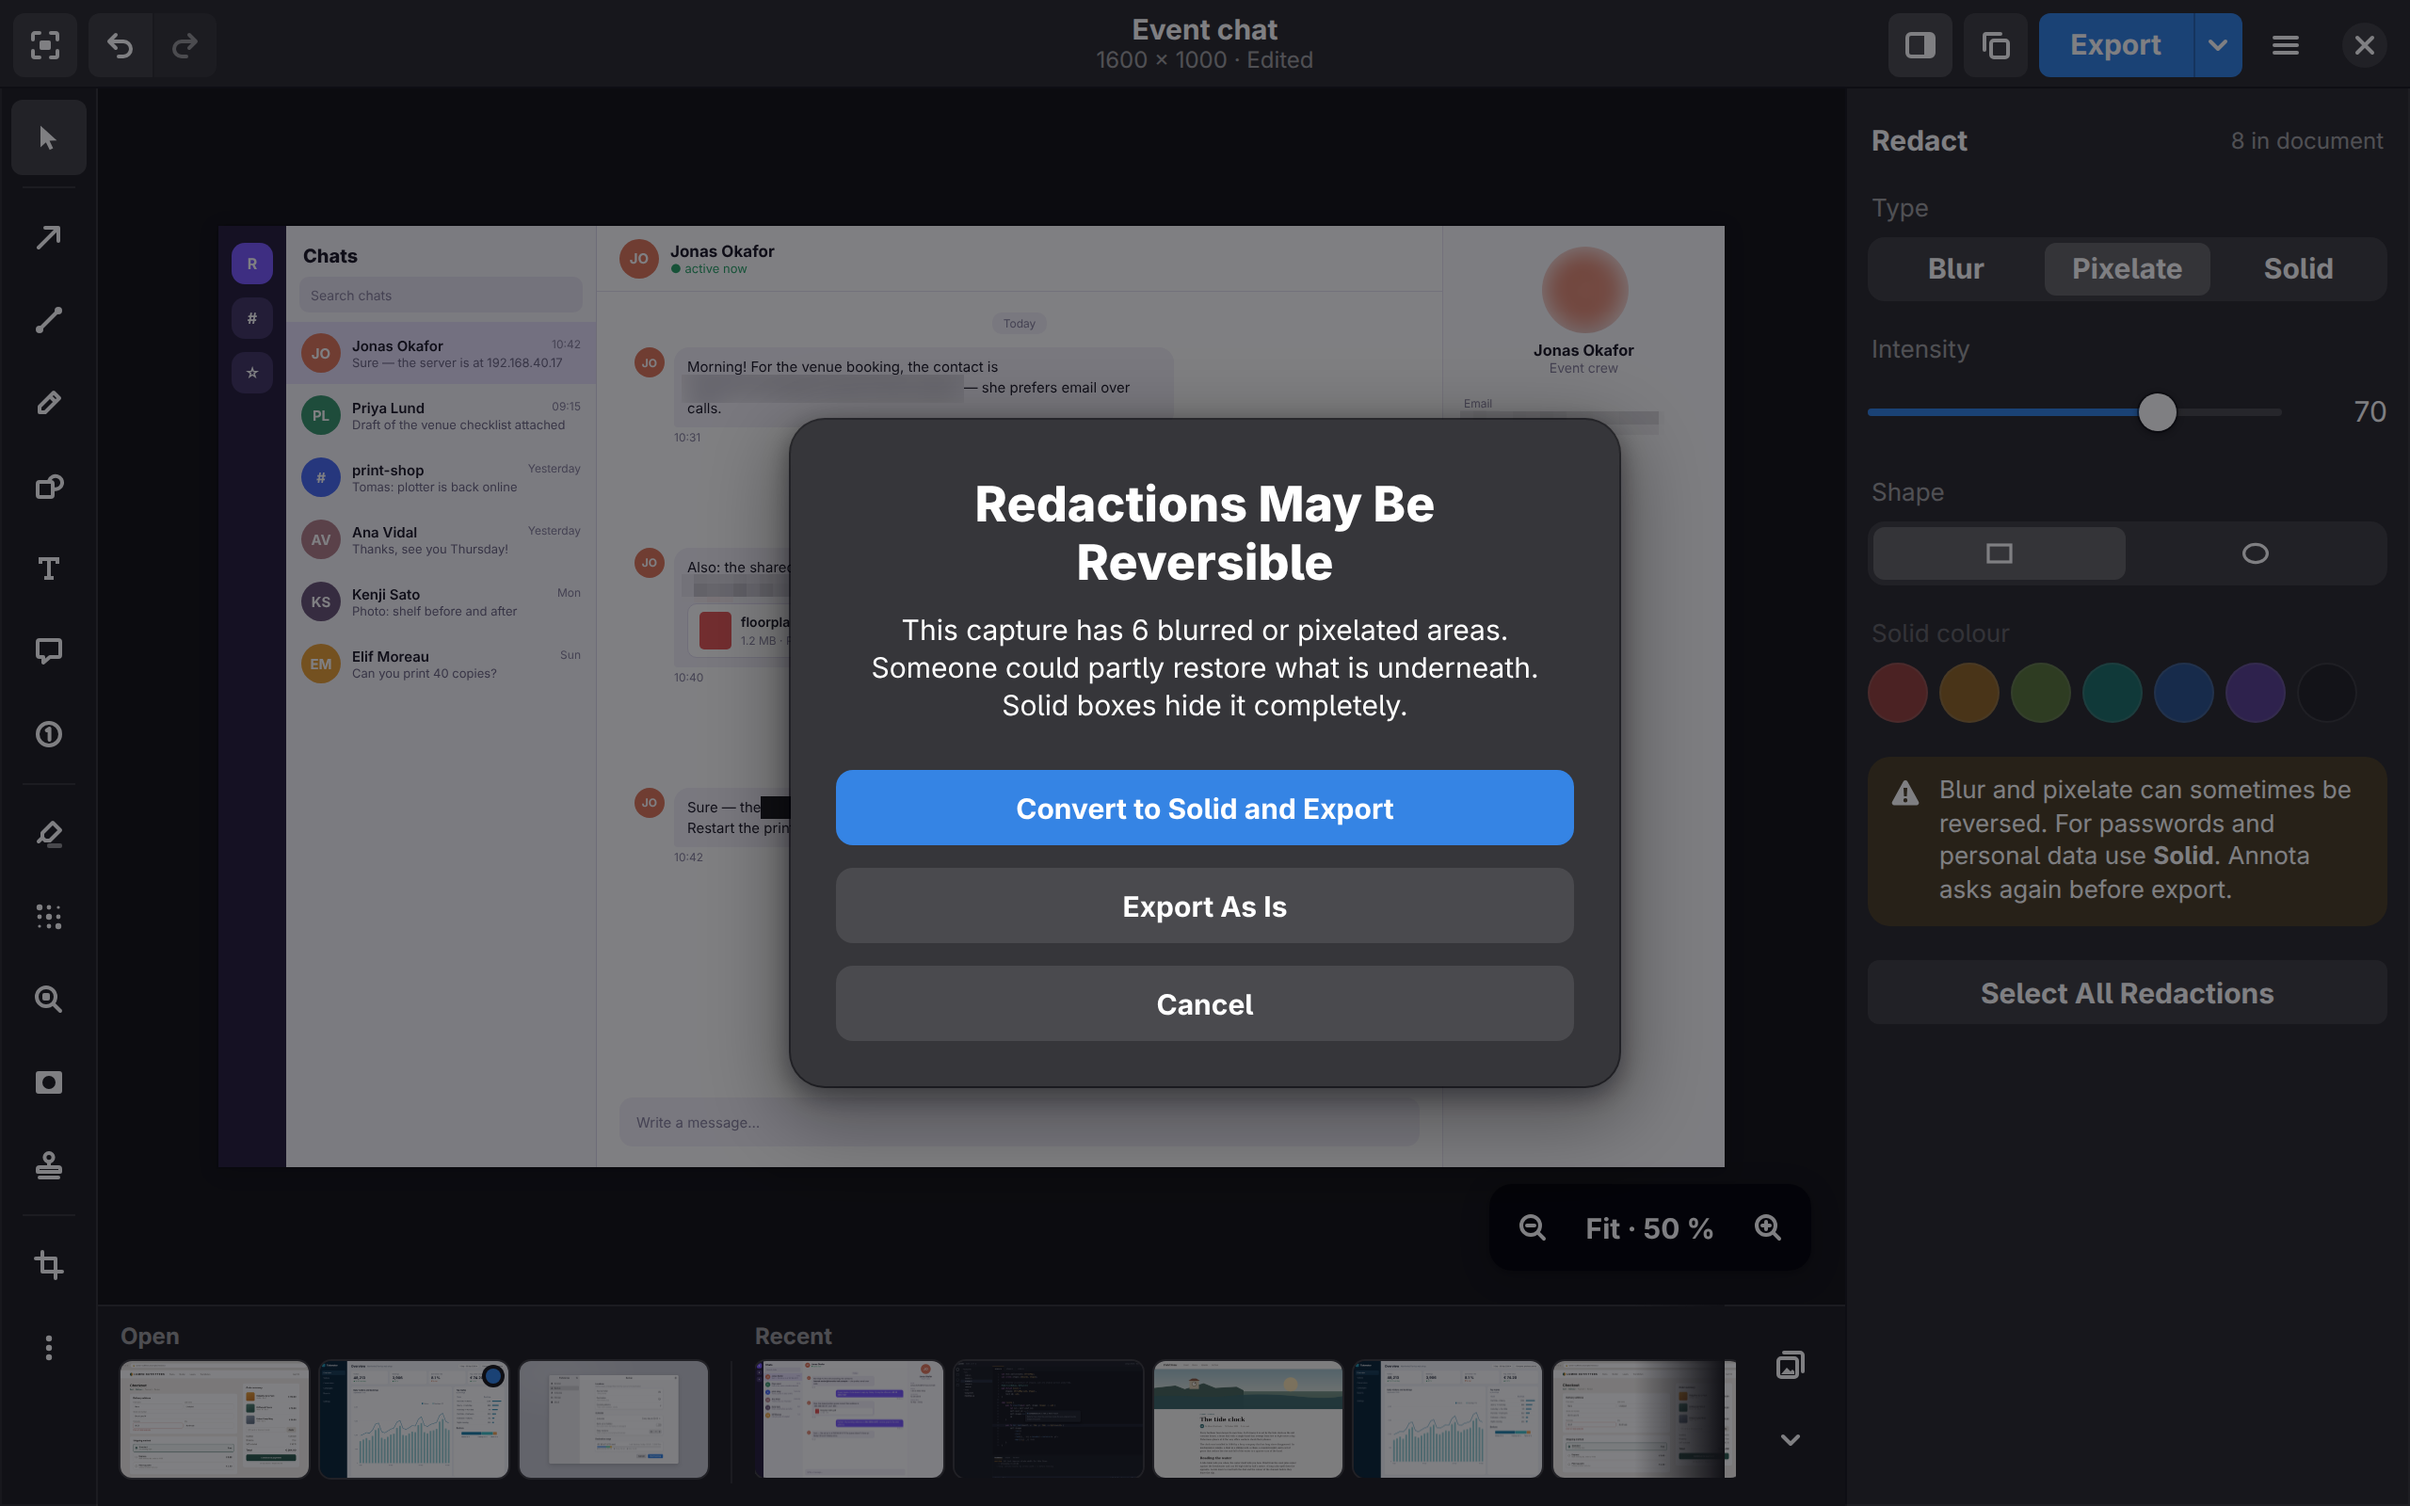
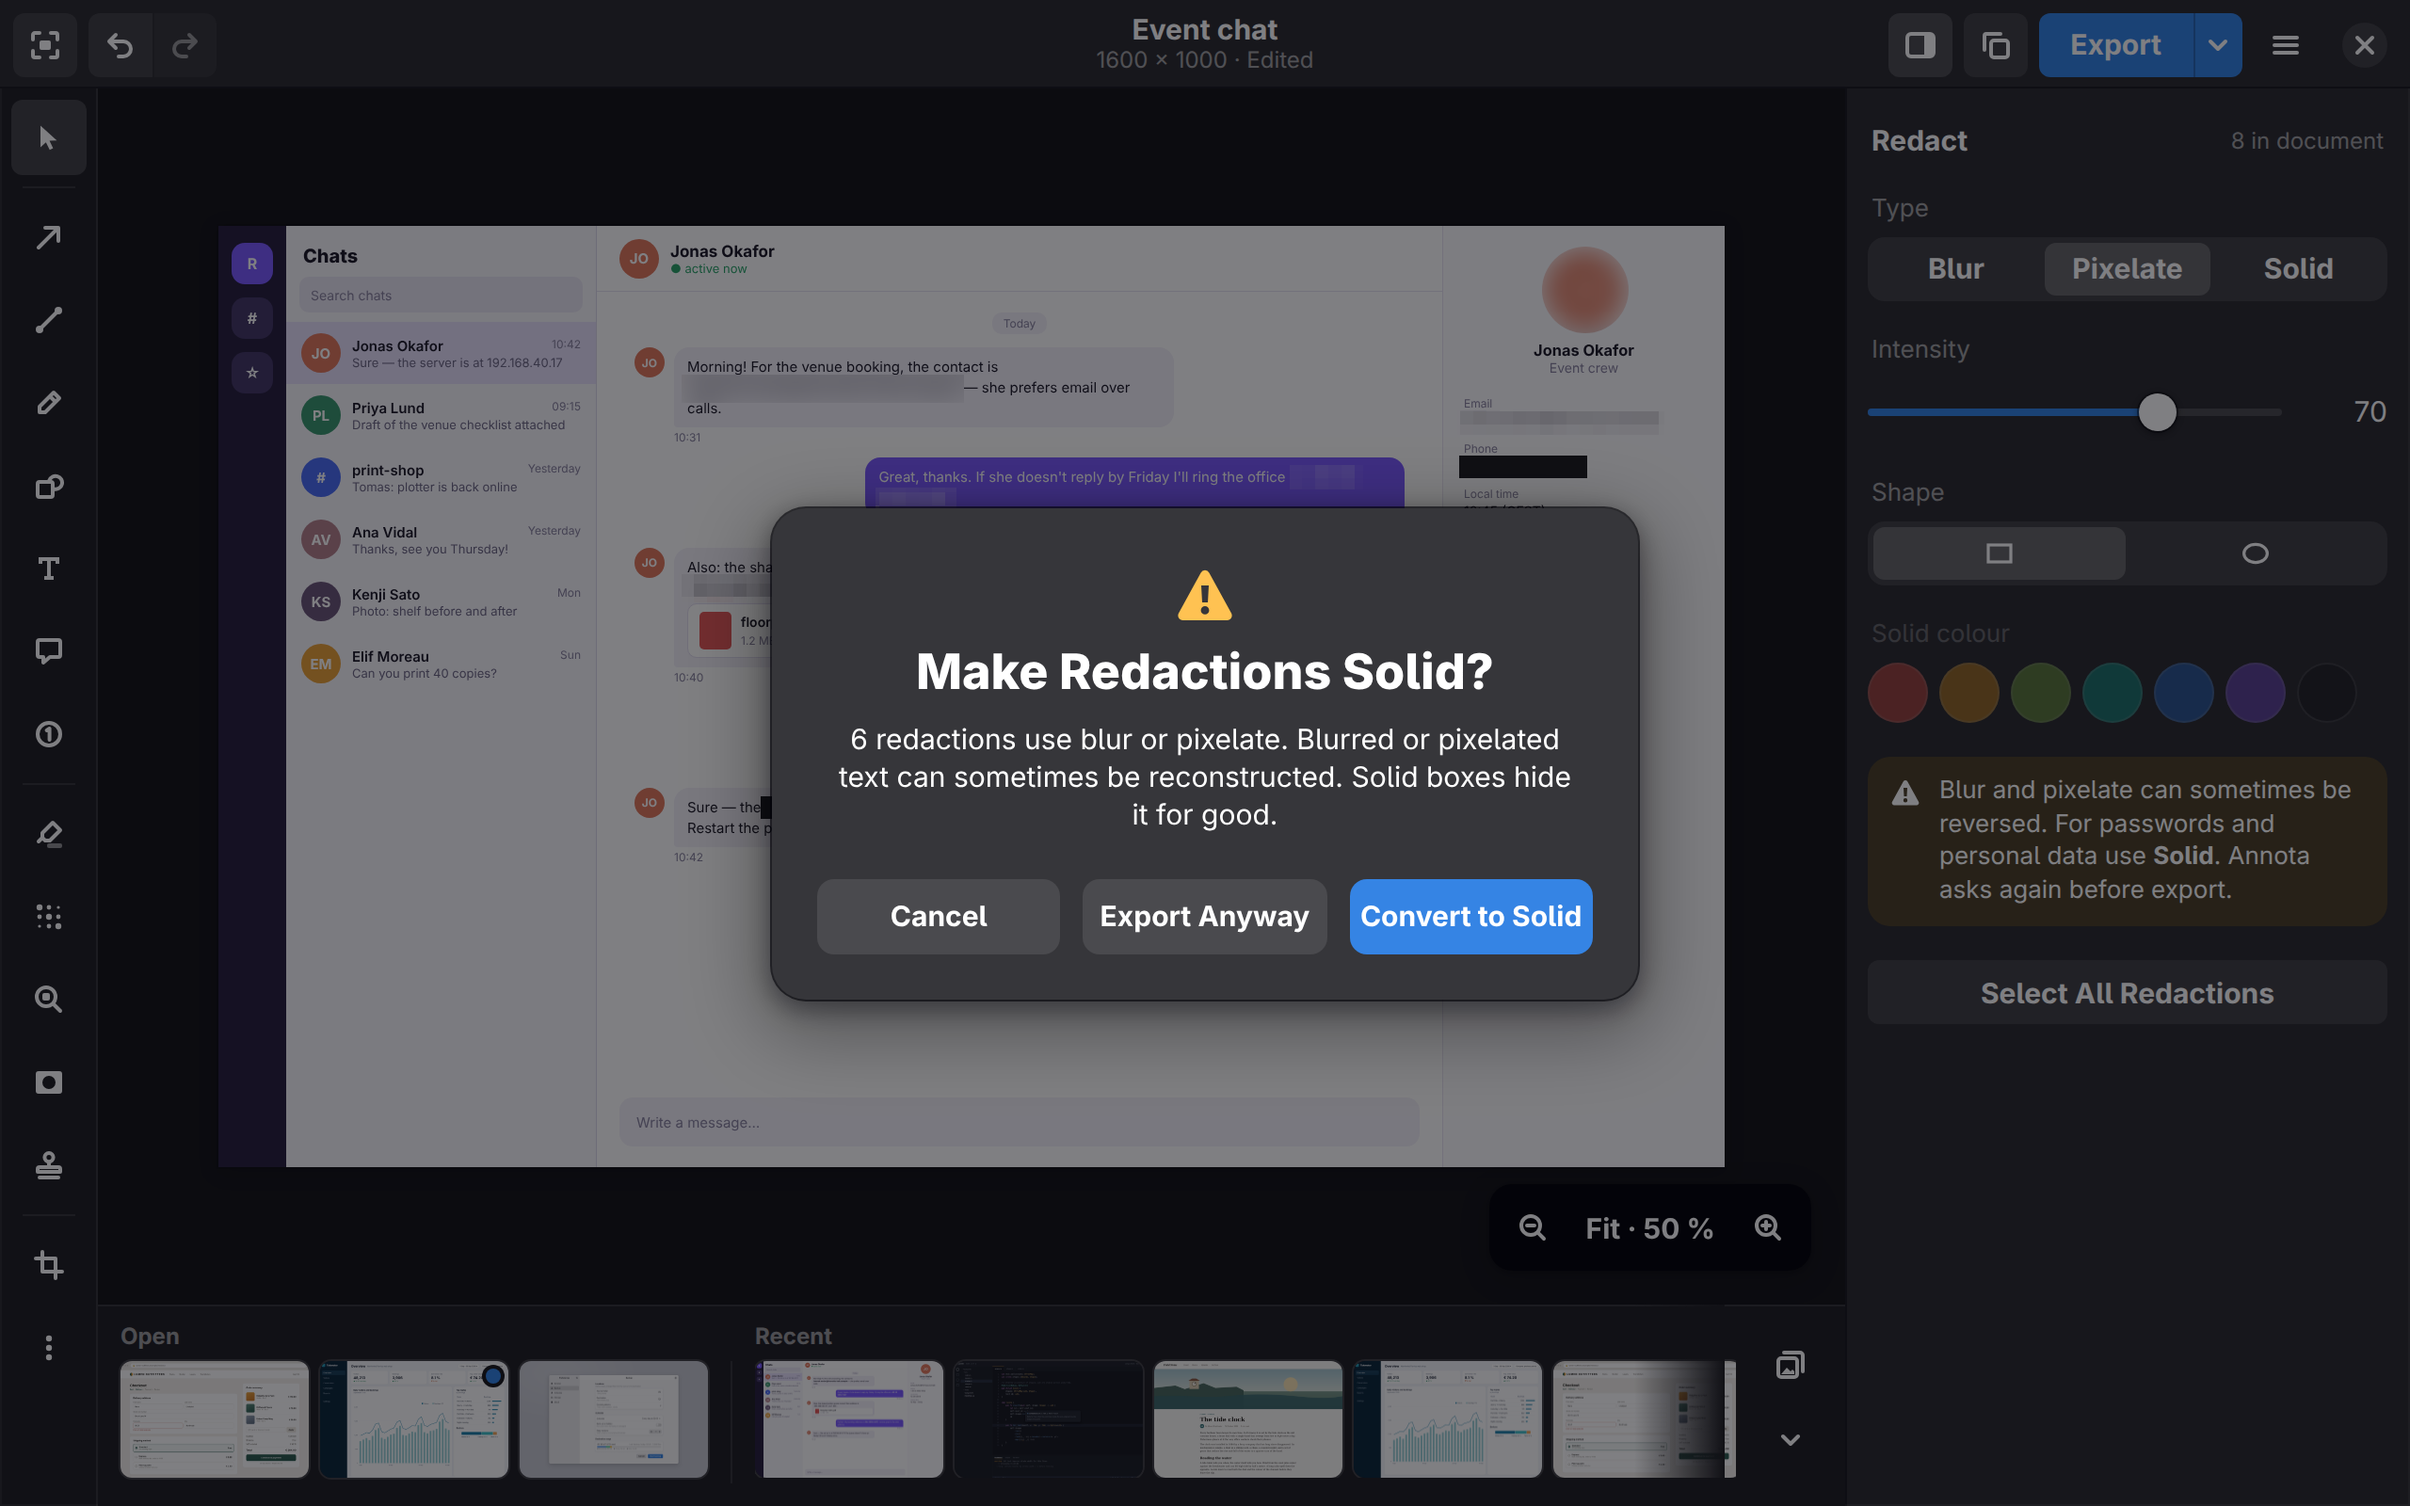
add-core-annotation-tools: redraw mockup 19 to match mockup 10
add-export-share decided mockup 10 is the canonical "Make Redactions
Solid?" dialog (horizontal buttons, warning icon, blur/pixelate-
specific wording) over this change's older stacked-button version.
Mockup-only fix to an already-implemented, already-reviewed change.

Changed region(s): [[0.3125, 0.25, 0.6875, 0.75], [0.375, 0.5938, 0.4062, 0.625]]

diff --git a/docs/design/add-core-annotation-tools/src/19-export-redaction-warning.html b/docs/design/add-core-annotation-tools/src/19-export-redaction-warning.html
@@ -206,15 +206,16 @@
         <button class="btn full" style="justify-content:center">Select All Redactions</button></div></div>
   </div>
   <div class="dialog-host" style="z-index:30">
-    <div class="dialog alert" style="width:440px;max-width:440px">
+    <div class="dialog alert" style="width:460px;max-width:460px">
       <div class="alert-body">
-        <span class="alert-heading">Redactions May Be Reversible</span>
-        <span>This capture has 6 blurred or pixelated areas. Someone could partly restore what is underneath. Solid boxes hide it completely.</span>
+        <div style="color:var(--warning)"><svg class="icon large"><use href="#i-warning"/></svg></div>
+        <div class="alert-heading">Make Redactions Solid?</div>
+        <div>6 redactions use blur or pixelate. Blurred or pixelated text can sometimes be reconstructed. Solid boxes hide it for good.</div>
       </div>
-      <div class="alert-actions" style="flex-direction:column;gap:12px">
-        <button class="btn suggested-action" style="width:100%">Convert to Solid and Export</button>
-        <button class="btn" style="width:100%">Export As Is</button>
-        <button class="btn" style="width:100%">Cancel</button>
+      <div class="alert-actions">
+        <button class="btn">Cancel</button>
+        <button class="btn">Export Anyway</button>
+        <button class="btn suggested-action">Convert to Solid</button>
       </div>
     </div>
   </div>

diff --git a/docs/design/add-core-annotation-tools/index.md b/docs/design/add-core-annotation-tools/index.md
@@ -25,7 +25,7 @@ result on a sample capture together with the full properties sidebar. 1280×800 
 | Step | Renumber on delete | [13-step-renumber-on-delete](png/13-step-renumber-on-delete-light@1x.png) | Ghost of deleted marker + “3 → 2”, “4 → 3” chips (transient, 1.5 s) + toast with Undo. |
 | Highlighter | Text readable | [14-highlighter](png/14-highlighter-light@1x.png) | Multiply blend, 45 % yellow; text under highlight stays legible. |
 | Redaction | (types) | [15-redact-blur-pixelate-solid](png/15-redact-blur-pixelate-solid-light@1x.png) | Blur (email, avatar ellipse), pixelate (selected), solid (phone, booking ref, IP). |
-| Redaction | Export warning | [19-export-redaction-warning](png/19-export-redaction-warning-light@1x.png) | Alert with Convert to Solid and Export (suggested) / Export As Is / Cancel. Also on Copy and drag-out. |
+| Redaction | Export warning | [19-export-redaction-warning](png/19-export-redaction-warning-light@1x.png) | Alert “Make Redactions Solid?”: Cancel · Export Anyway · Convert to Solid (suggested). Matches add-export-share mockup 10 (canonical). Also on Copy, drag-out and share; never on a `.annota` save. |
 
 ## Redlines
 
@@ -85,9 +85,19 @@ offset +18/+18 from the pointer, chip “#RRGGBB · Click to pick · Esc cancels
 If the portal does not provide a loupe, Annota shows none; the chip stays.
 
 ### Redaction export warning (19)
-Alert 440 px: heading “Redactions May Be Reversible”, body “This capture has N blurred or pixelated areas. Someone could partly
-restore what is underneath. Solid boxes hide it completely.” Stacked buttons: **Convert to Solid and Export** (suggested),
-**Export As Is**, **Cancel**. Same alert on Copy (button reads “Convert to Solid and Copy”).
+Identical to add-export-share mockup 10 (“Pixelate warning”), which is the canonical version (maintainer decision
+2026-10-31; built in `data/ui/redaction-warning.blp`). Alert 460 px: `warning` icon 32 px in `--warning`, heading
+“Make Redactions Solid?”, centred body naming the count and the kind (count includes redactions inside groups):
+- only pixelate: “<n> redactions use pixelate. Pixelated text can sometimes be reconstructed. Solid boxes hide it for good.”
+- only blur: “<n> redactions use blur. Blurred text can sometimes be reconstructed. Solid boxes hide it for good.”
+- both (drawn here, 2 blur + 4 pixelate): “<n> redactions use blur or pixelate. Blurred or pixelated text can sometimes be
+  reconstructed. Solid boxes hide it for good.”
+- singular for n = 1: “1 redaction uses …”.
+
+Horizontal, equal-width buttons, 12 px apart: **Cancel** · **Export Anyway** · **Convert to Solid** (suggested). Escape =
+Cancel, Enter = Convert to Solid. Convert to Solid is one undo step, then the action continues. The middle button is named
+after the way out (“Copy Anyway” before Copy, etc.). Shown before export, copy, drag-out and share; never before a `.annota`
+save (quick save, Save As).
 
 ### Kit additions needed (improvised as page-local glyphs)
 `shape-rectangle`, `shape-rounded`, `shape-ellipse`, `shape-polygon`, `shape-cloud`, `line-solid`, `line-dashed`, `line-dotted`,
